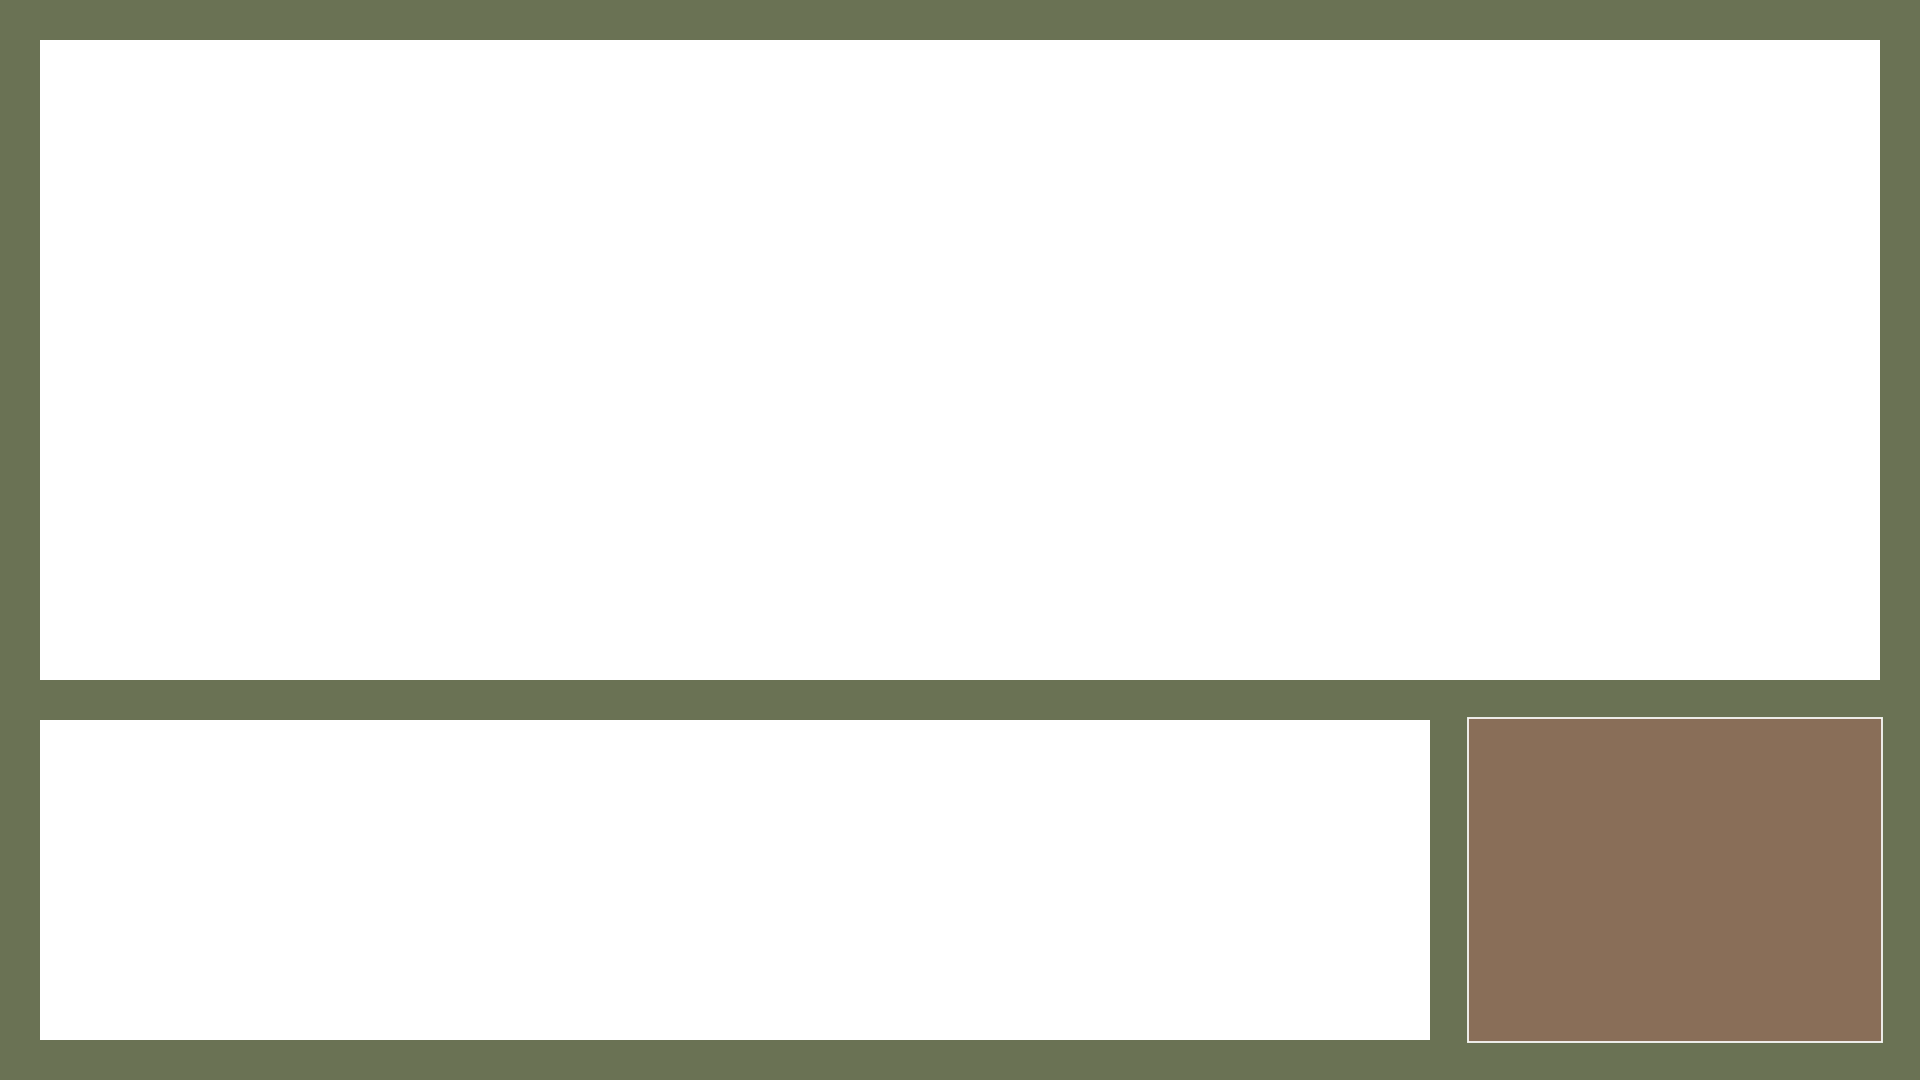
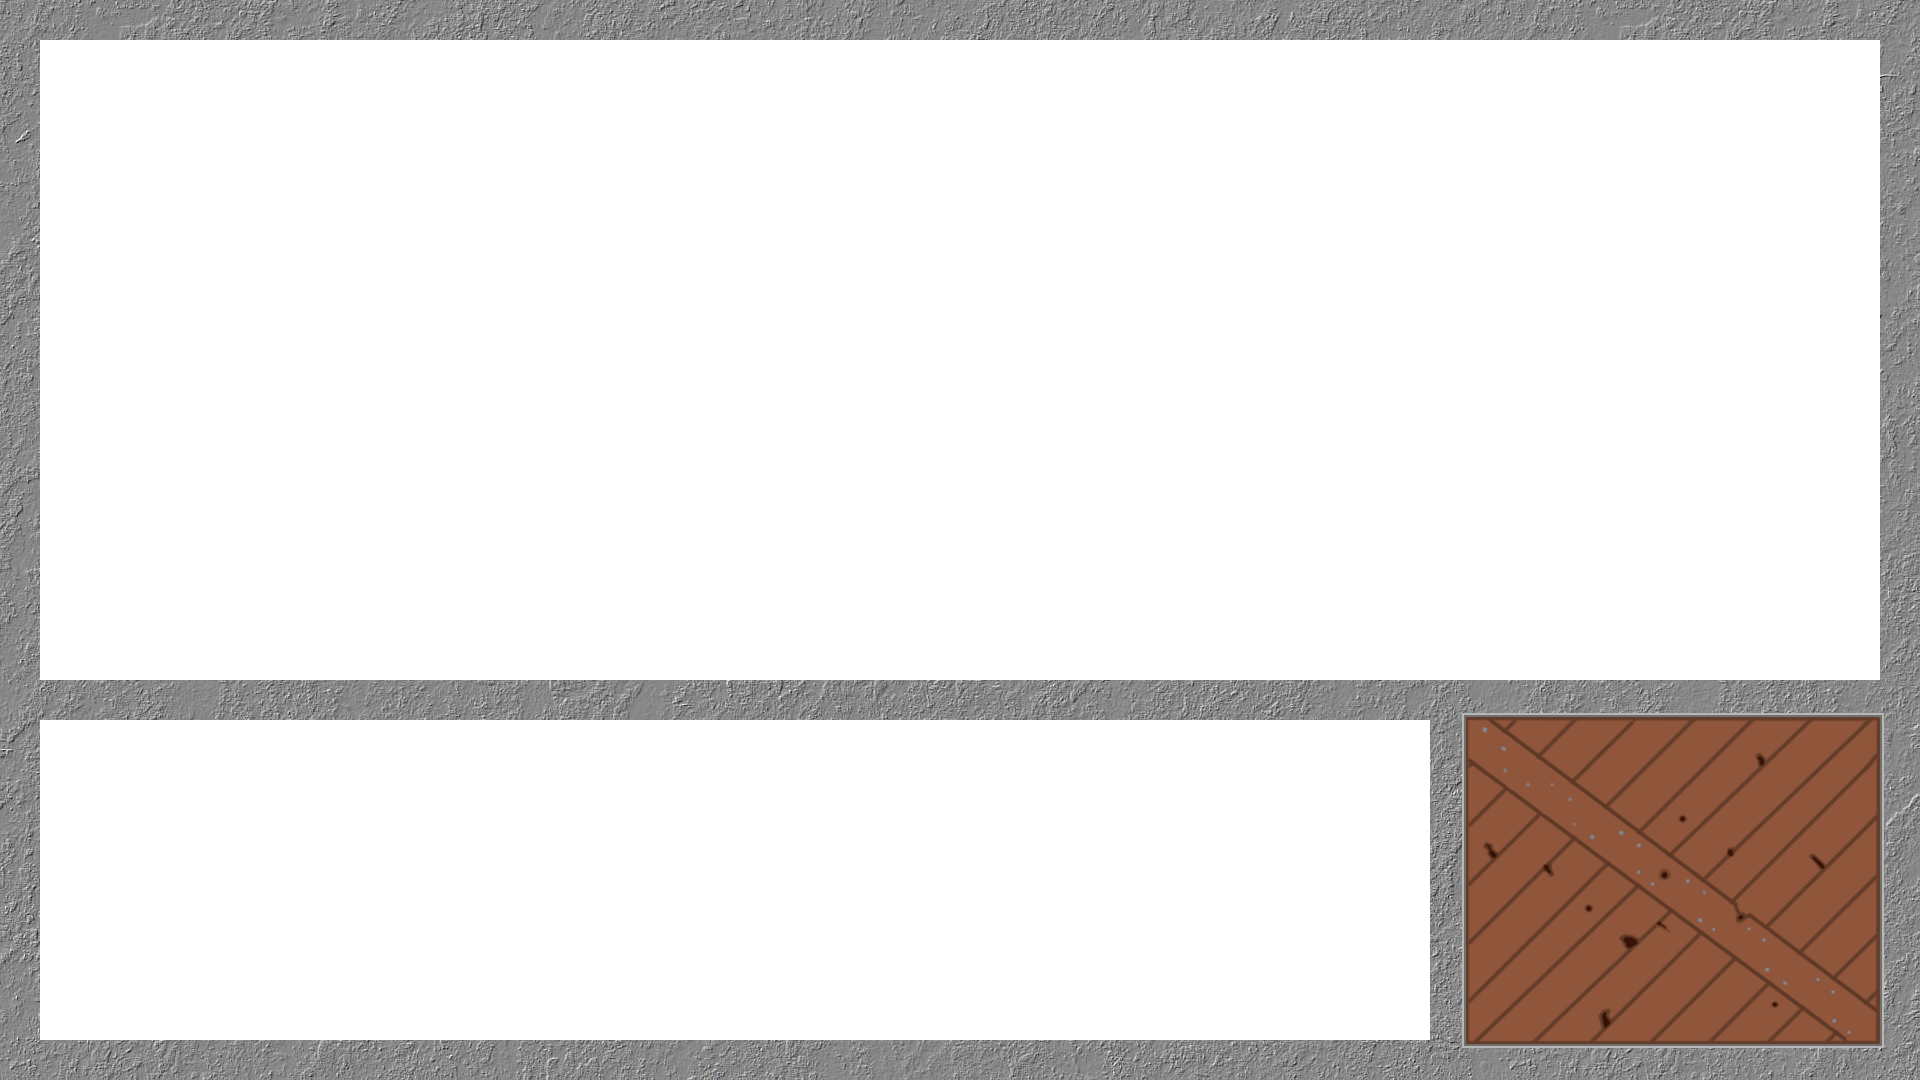
upload

Changed region(s): [[0.0, 0.0, 1.0, 1.0]]

diff --git a/AdventureGame/src/Battle.py b/AdventureGame/src/Battle.py
@@ -5,7 +5,6 @@ from src.Creatures.Creature import *
 from src.Animation import *
 import pygame
 
-
 class ButtonLayout:
     def __init__(self, interruptQueue, *buttons):
         self.buttons = list(buttons)
@@ -30,12 +29,15 @@ class ButtonLayout:
 
 class Battle:
 
-    frame = pygame.image.load("../art/Frame.png")
+    frame = pygame.image.load("../art/UI.png")
 
     def __init__(self, enemies, heroes, background, characteristics):
         self.environment = Environment(enemies,heroes,characteristics)
         self.setEnemyPositions()
         self.setHeroPositions()
+
+        self.moveQueue = []
+        self.fillMoveQueue()
 
         self.background = background
 
@@ -46,37 +48,37 @@ class Battle:
         self.basicButtonLayout = ButtonLayout(
             self.basicButtonInterrupt,
             Button(
-                1470, 721, 205, 106,
+                1470, 720, 200, 100,
                 pygame.image.load("../art/buttons/BasicAttack.png").convert(),
                 lambda: print("Basic Attack") if self.locked == 0 else None,
                 self.basicButtonInterrupt
             ),
             Button(
-                1675, 721, 205, 106,
+                1675, 720, 200, 100,
                 pygame.image.load("../art/buttons/UniqueAttack.png").convert(),
                 lambda: print("Unique Attack") if self.locked == 0 else None,
                 self.basicButtonInterrupt
             ),
             Button(
-                1470, 827, 205, 106,
+                1470, 830, 200, 100,
                 pygame.image.load("../art/buttons/SpecialAttack.png").convert(),
                 lambda: print("Special Attack") if self.locked == 0 else None,
                 self.basicButtonInterrupt
             ),
             Button(
-                1675, 827, 205, 106,
+                1675, 830, 200, 100,
                 pygame.image.load("../art/buttons/Defense.png").convert(),
                 lambda: print("Defense") if self.locked == 0 else None,
                 self.basicButtonInterrupt
             ),
             Button(
-                1470, 933, 205, 106,
+                1470, 940, 200, 100,
                 pygame.image.load("../art/buttons/Items.png").convert(),
                 lambda: print("Items") if self.locked == 0 else None,
                 self.basicButtonInterrupt
             ),
             Button(
-                1675, 933, 205, 106,
+                1675, 940, 200, 100,
                 pygame.image.load("../art/buttons/Run.png").convert(),
                 lambda: print("Run") if self.locked == 0 else None,
                 self.basicButtonInterrupt
@@ -117,7 +119,7 @@ class Battle:
         x = 70
         y = 1010
         for hero in self.environment.heroes:
-            hero.changePosition(x, y - sizeToSpace)
+            hero.changePosition(x + 30, y - sizeToSpace + 30)
             x += distBetween + sizeToSpace
 
     def lockdown(self, amt):
@@ -127,6 +129,10 @@ class Battle:
         self.locked -= amt
         if self.locked < 0:
             self.locked = 0
+
+    def fillMoveQueue(self):
+        self.moveQueue = sorted(self.environment.enemies + self.environment.heroes, key=lambda c: c.speed)
+
 
 
 

diff --git a/AdventureGame/src/Main.py b/AdventureGame/src/Main.py
@@ -1,14 +1,15 @@
 import sys, pygame
-from src.InterruptQueue import *
-from src.UI import *
-from src.Battle import *
-from src.Creatures.Creature import *
-from src.Creatures.Hero import *
 
 import ctypes
 ctypes.windll.user32.SetProcessDPIAware()  # <== found it on stack overflow, it works
 
 pygame.init()
+
+from src.InterruptQueue import *
+from src.UI import *
+from src.Battle import *
+from src.Creatures.Creature import *
+from src.Creatures.Hero import *
 
 size = width, height = 1920, 1080
 empty = pygame.Color(0, 0, 0, 0)
@@ -21,20 +22,20 @@ characters = pygame.surface.Surface((width, height),pygame.SRCALPHA)
 attacks = pygame.surface.Surface((width, height),pygame.SRCALPHA)
 layers = [backdrop, characters, ui, attacks]
 
-background = pygame.transform.scale(pygame.image.load("../art/hawaii.jpg"), size)
-enemyImage = pygame.transform.scale(pygame.image.load(r"..\art\Miner\Full Body Sprite\Miner Sprite 16x16.png"), (16,16))
+background = pygame.transform.scale(pygame.image.load("../art/Fortress.png"), size)
+enemyImage = pygame.transform.scale(pygame.image.load(r"..\art\Slime\Slime.png"), (32, 32))
 
 enemies = [
-    Creature(1, 100, 50, dict(), enemyImage, None),
-    Creature(2, 100, 50, dict(), enemyImage, None),
-    Creature(1, 100, 50, dict(), enemyImage, None)
+    Creature(1, 100, 50, dict(), enemyImage, None, "Samuel"),
+    Creature(2, 100, 50, dict(), enemyImage, None, "Timothy"),
+    Creature(1, 100, 50, dict(), enemyImage, None, "Christopher")
 ]
 
 heroes = [
-    Hero(100, 50, dict(), enemyImage),
-    Hero(100, 50, dict(), enemyImage),
-    Hero(100, 50, dict(), enemyImage),
-    Hero(100, 50, dict(), enemyImage)
+    Hero(100, 50, dict(), enemyImage, "Cat"),
+    Hero(100, 50, dict(), enemyImage, "Bus"),
+    Hero(100, 50, dict(), enemyImage, "Carpenter"),
+    Hero(100, 50, dict(), enemyImage, "Destroyer of Worlds")
 ]
 
 battle = Battle(enemies, heroes, background, None)

diff --git a/AdventureGame/src/Creatures/Creature.py b/AdventureGame/src/Creatures/Creature.py
@@ -4,16 +4,19 @@ from random import choice
 class Creature:
 
     sizeHeight = 240
+    nameFont = pygame.font.Font('../art/Example.ttf', 36)
 
-    def __init__(self, size, health, speed, damageModifiers, image, attacks):
+    def __init__(self, size, health, speed, damageModifiers, image, attacks, name):
         self.size = size
         self.maxHealth = health
         self.currHealth = health
         self.damageModifiers = damageModifiers
         self.image = pygame.transform.scale(image, (int(self.sizeHeight * size), int(self.sizeHeight * size)))
         self.attacks = attacks
-        self.position = (-1,-1)
+        self.position = (-1, -1)
         self.speed = speed
+        self.name = self.nameFont.render(name, True, (100, 100, 100))  # center name below
+        self.textPosition = (-1,-1)
 
     def takeDamage(self, modifier, amount=0, percent=0): # can also be used for healing w/ - damage
         self.health -= amount * (1 if modifier not in self.damageModifiers else self.damageModifiers[modifier])
@@ -21,12 +24,15 @@ class Creature:
 
     def draw(self, layers):
         layers[1].blit(self.image, self.position)
+        layers[2].blit(self.name,self.textPosition)
 
     def movePosiotion(self, deltaX, deltaY):
         self.position = (self.position[0] + deltaX, self.position[1] + deltaY)
+        self.textPosition = (self.textPosition[0] + deltaX, self.textPosition[1] + deltaY)
 
     def changePosition(self, x, y):
         self.position = (x, y)
+        self.textPosition = (x + (self.size*self.sizeHeight - self.name.get_width()) // 2, y + self.size*self.sizeHeight + 5)
 
     def getAttack(self, env):
         return choice(self.attacks)

diff --git a/AdventureGame/src/Creatures/Hero.py b/AdventureGame/src/Creatures/Hero.py
@@ -1,10 +1,11 @@
 import pygame
 from src.Creatures.Creature import Creature
 
-
 class Hero(Creature):
 
-    def __init__(self, health, speed, damageModifiers, image):
-        super().__init__(310/Creature.sizeHeight, health, speed, damageModifiers, image, None)
+    def __init__(self, health, speed, damageModifiers, image, name):
+        super().__init__((310-60)/Creature.sizeHeight, health, speed, damageModifiers, image, None, name)
 
+    def draw(self, layers):
+        super().draw(layers)
 

diff --git a/AdventureGame/src/UI.py b/AdventureGame/src/UI.py
@@ -1,6 +1,5 @@
 import pygame
 
-
 class Button:
     def __init__(self, x, y, width, height, image, onClick, interruptQueue):
         self.onClick = onClick
@@ -24,4 +23,5 @@ class Button:
     def drawButton(self, layers):
         layers[2].blit(self.image,self.rect)
 
-
+def drawBar(OuterBar,InnerBar,size,offset,position,layers):
+    layers[2].blit(OuterBar, position)
